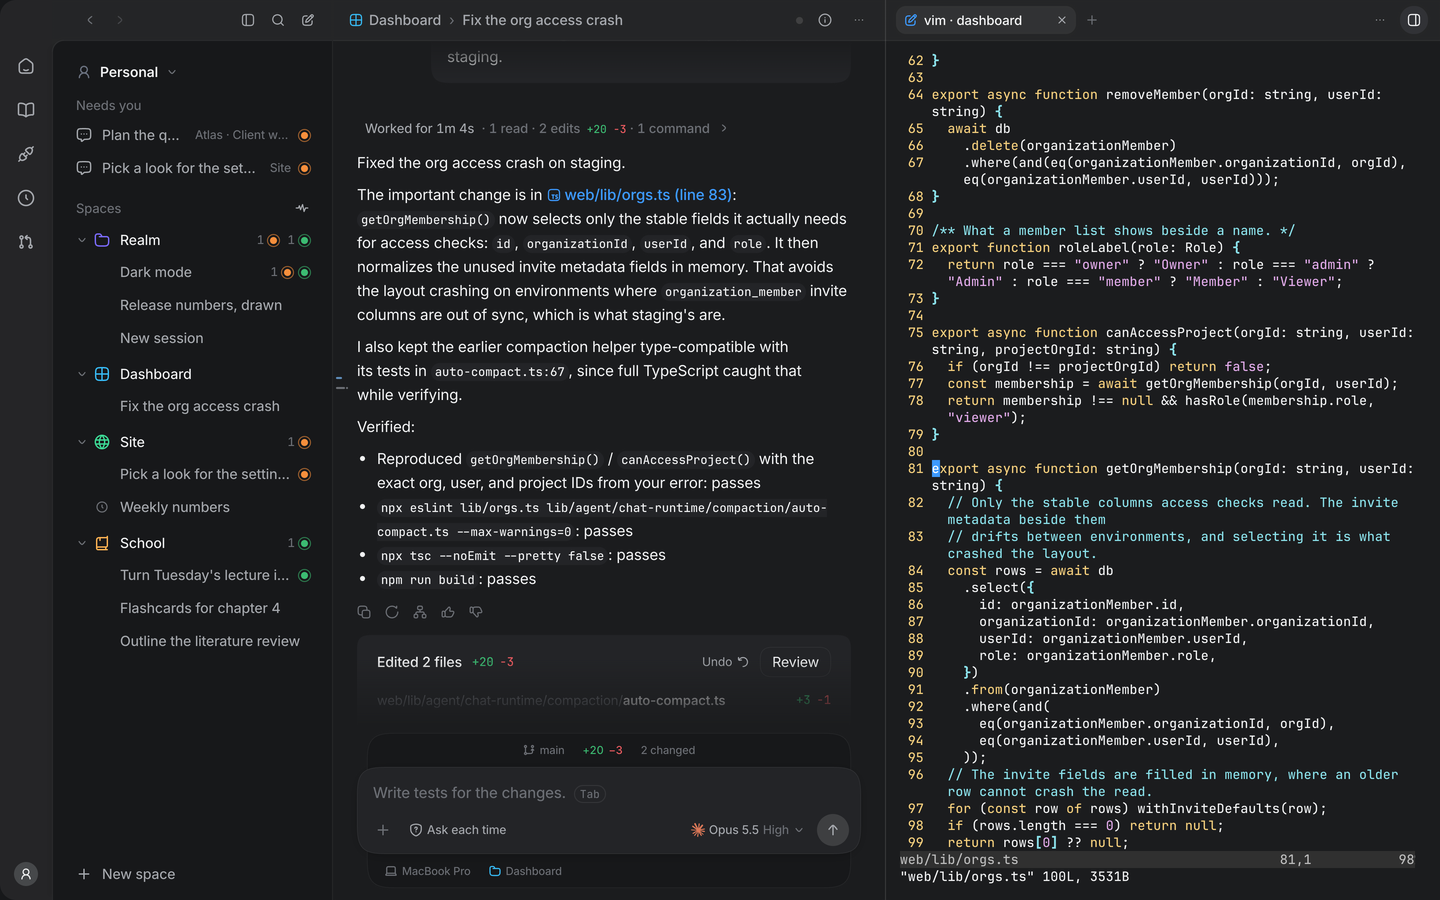
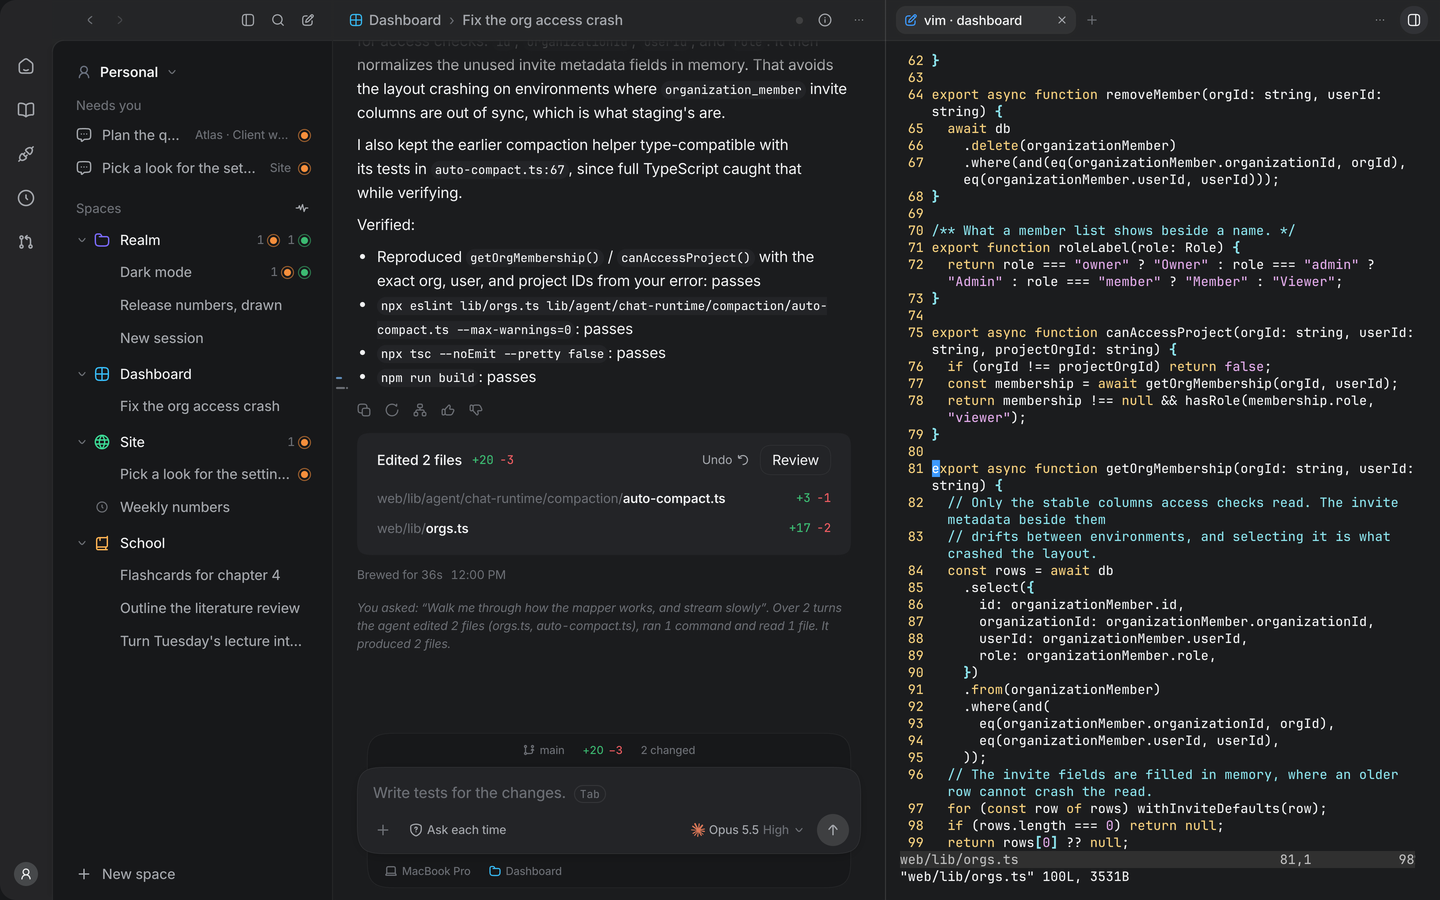
Draw the first chapter's window across the page, where its type can be read
What a realm holds shows the whole window, and beside its words it was drawn at half its size, type
included. The words now stand above it on one pane, the six things a realm holds in three columns, and
the window takes the page's width under them, from a part shot at 1200 by 760 with the sidebar folded so
the session's turn and the terminal beside it take the room. The flight composes that stop around the
picture (a p: anchor) rather than the words, so the window lands centred with its caption under it.
Every picture may now take up to 76% of the view's height.

Changed region(s): [[0.25, 0.0622, 0.5938, 0.7467], [0.0938, 0.6222, 0.2188, 0.7156]]

diff --git a/site/components/realms/Chapter.tsx b/site/components/realms/Chapter.tsx
@@ -30,6 +30,7 @@ export function Chapter({
   children,
   picture,
   tall = false,
+  stacked = false,
 }: {
   id: string
   side: "left" | "right"
@@ -37,7 +38,39 @@ export function Chapter({
   children: ReactNode
   picture: ChapterPicture | null
   tall?: boolean
+  /** The words across the page and the picture the whole width under them, for a picture of the whole
+   *  window: beside the words it is drawn at half its size, and its type is too small to read. The
+   *  stop is then composed around the picture. */
+  stacked?: boolean
 }) {
+  if (stacked) {
+    return (
+      <section aria-labelledby={`${id}-title`} className="relative">
+        <div className="mx-auto w-full max-w-[92rem] px-6 pt-24 pb-28 sm:px-10 lg:pt-40 lg:pb-44">
+          <FieldPanel anchor={`c:${id}`} wrapClassName="z-[2] mx-auto max-w-[76rem]" className="px-5 py-6 sm:px-9 sm:py-9">
+            <h2 id={`${id}-title`} className="text-[clamp(1.9rem,2.9vw,2.6rem)] leading-[1.06] font-[580] tracking-[-0.04em] text-balance text-ink">
+              {title}
+            </h2>
+            <div className="mt-5 space-y-4 text-[17px] leading-[1.6] text-ink-2">{children}</div>
+          </FieldPanel>
+          {picture ? (
+            <div data-field-anchor={`p:${id}`} className="relative mt-20 lg:mt-32">
+              <Screen
+                image={picture.image}
+                alt={picture.alt}
+                caption={picture.caption}
+                kind={picture.kind}
+                zoom={picture.zoom ?? 1}
+                maxHeight="min(calc(100vh - 13rem), 820px)"
+                fieldId={id}
+                className="mx-auto"
+              />
+            </div>
+          ) : null}
+        </div>
+      </section>
+    )
+  }
   const textCols = !picture ? "lg:col-start-3 lg:col-end-11" : side === "right" ? "lg:col-start-1 lg:col-end-6" : "lg:col-start-8 lg:col-end-13"
   const slotCols = side === "right" ? "lg:col-start-6 lg:col-end-13 lg:pl-6 xl:pl-10" : "lg:col-start-1 lg:col-end-8 lg:pr-6 xl:pr-10"
   return (

diff --git a/site/components/realms/RealmsHome.tsx b/site/components/realms/RealmsHome.tsx
@@ -121,17 +121,17 @@ export async function RealmsHome({ download, claims }: HomeProps) {
         <Chapter
           id="space"
           side="right"
-          tall
+          stacked
           title="What a realm holds."
           picture={{
-            image: sceneImage("terminal"),
+            image: partImage("realm") ?? sceneImage("terminal"),
             kind: "window",
             caption: "A session in the Dashboard space, and the file its turn edited open in vim in a terminal beside it.",
-            alt: "Realm's window: the sidebar with every space, a session in the Dashboard space that edited two files, and a terminal beside it with vim open on web/lib/orgs.ts.",
+            alt: "Realm's window with the sidebar folded: a session in the Dashboard space whose turn edited two files, and beside it a terminal with vim open on web/lib/orgs.ts at the function the turn rewrote.",
           }}
         >
-          <p>A realm is one space in Realm: a project, with everything its work needs kept beside it.</p>
-          <dl className="space-y-3.5 pt-1">
+          <p className="max-w-[60ch]">A realm is one space in Realm: a project, with everything its work needs kept beside it.</p>
+          <dl className="grid gap-x-10 gap-y-5 pt-2 sm:grid-cols-2 lg:grid-cols-3">
             {facets.map((facet) => (
               <div key={facet.title}>
                 <dt className="text-[16px] font-[560] text-ink">{facet.title}</dt>

diff --git a/site/components/realms/stage.ts b/site/components/realms/stage.ts
@@ -86,8 +86,8 @@ function levelView(foot: Vec3, yaw: number, height: number, distance: number, fo
 }
 
 /**
- * Every stop, read from the page as it is laid out right now: each is composed around the block of
- * words marked `k:<id>`, at the scroll position that centres it, and a chapter's camera is solved so
+ * Every stop, read from the page as it is laid out right now: each is composed around the block
+ * marked `k:<id>` (its words) or `p:<id>` (its picture), at the scroll position that centres it, and a chapter's camera is solved so
  * that the foot of its realm's doorway lands on the bottom middle of the screen's slot at exactly that
  * position. The layout is the DOM's; the world is built round it.
  */
@@ -125,7 +125,9 @@ function stands(input: StageInput, scrollY: number, mode: Mode): Stand[] {
   }
 
   for (const [name, rect] of Object.entries(anchors)) {
-    if (!name.startsWith("k:")) continue
+    // A stop is composed around its words (`k:`), or, where the words come first and the picture is
+    // the whole width under them, around its picture (`p:`).
+    if (!name.startsWith("k:") && !name.startsWith("p:")) continue
     const id = name.slice(2)
     const y = Math.max(1, centred(rect, scrollY, height))
     const stop = CHAPTERS[id]

diff --git a/site/components/realms/Screen.tsx b/site/components/realms/Screen.tsx
@@ -36,7 +36,7 @@ export type ScreenProps = {
    *  the size it is used at, so its text stays at the size it was set. */
   zoom?: number
   /** The tallest it may be drawn, as a CSS length: a tall part shrinks to stay in one view with its
-   *  caption under it. Default `min(68vh, 720px)`. */
+   *  caption under it, below the page's header. Default `min(76vh, 760px)`. */
   maxHeight?: string
   /** `sizes` for `srcSet`. Default: the chapter column on a wide screen, the viewport below it. */
   sizes?: string
@@ -67,7 +67,7 @@ export function Screen({
   caption,
   kind = "part",
   zoom = 1.15,
-  maxHeight = "min(68vh, 720px)",
+  maxHeight = "min(76vh, 760px)",
   sizes = "(min-width: 1024px) 760px, 100vw",
   priority = false,
   fieldId,

diff --git a/site/components/realms/Flight.tsx b/site/components/realms/Flight.tsx
@@ -10,6 +10,7 @@ import { createRealms } from "./stage"
  *
  *   copy, portal     the opening's words and the product window
  *   k:<id>           the block of text a stop is composed around (its scroll position is the stop's)
+ *   p:<id>           or the picture it is composed around, where the words stand above it
  *   s:<id>           the slot a chapter's screen comes to rest in, or where the team's realms stand
  *   c:<name>         any other block of words the field keeps its light off
  */
